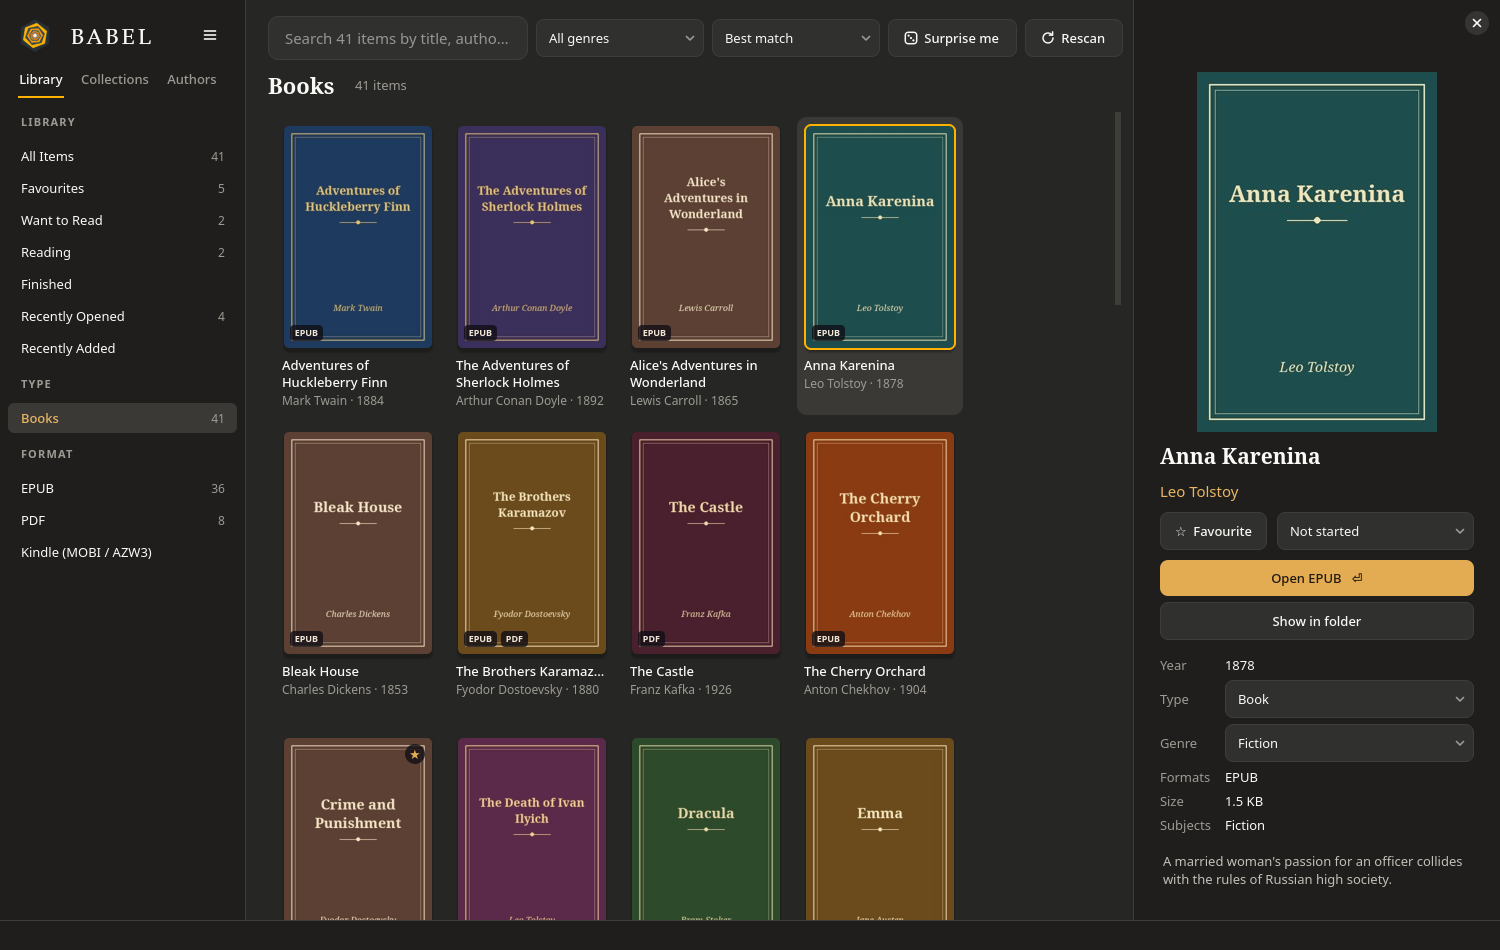
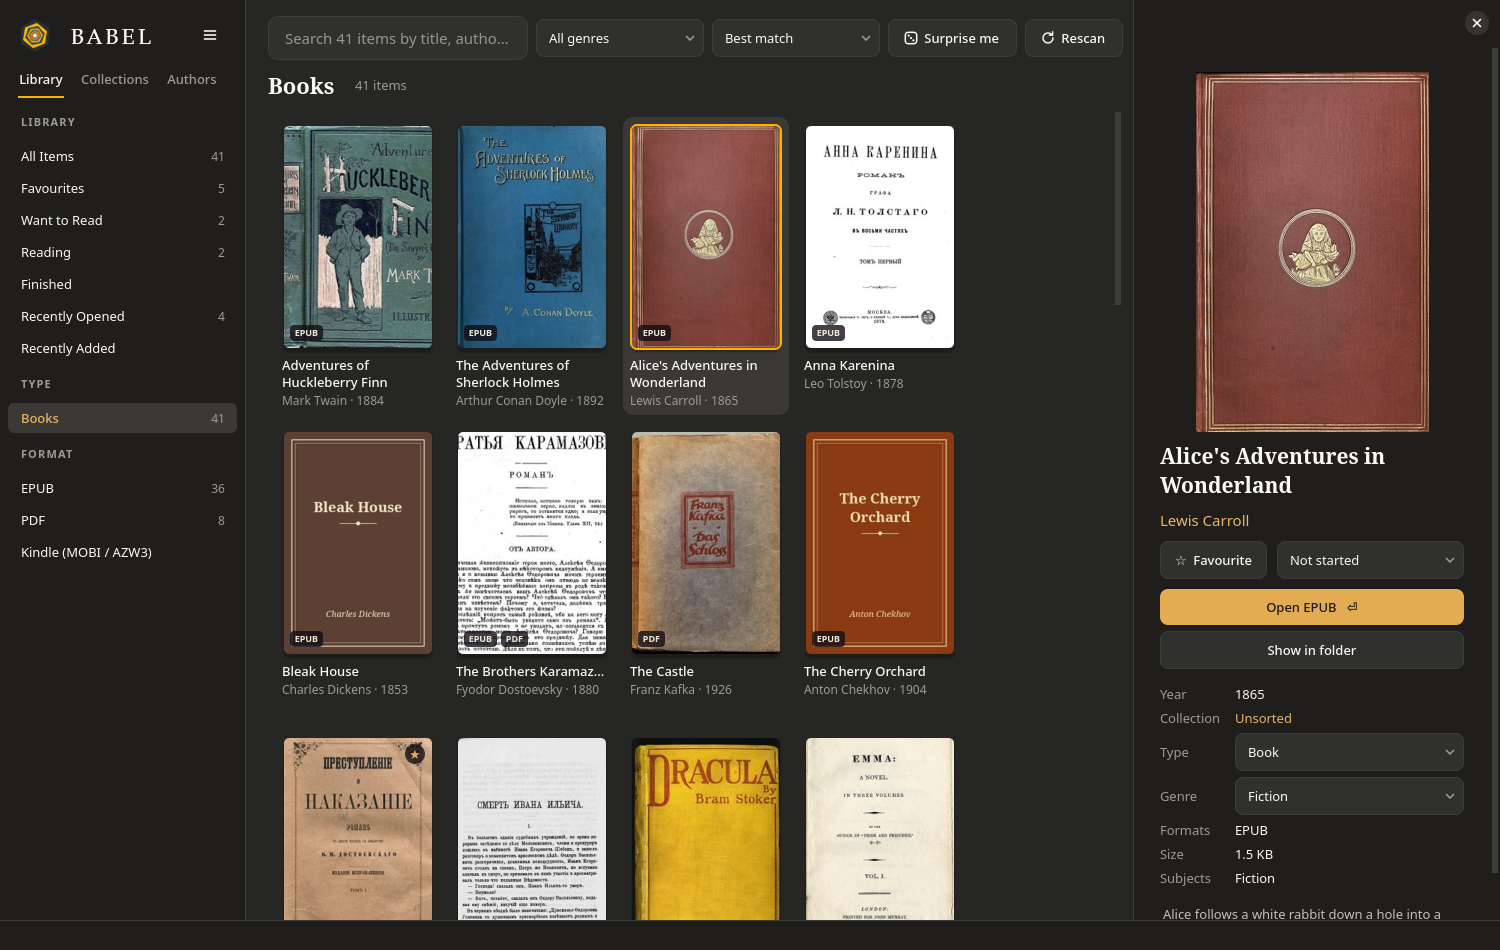
Screenshots: use public-domain early-edition covers
The demo library's covers are now scans of early editions from Wikimedia
Commons, each marked public domain there; docs/CREDITS.md lists every
image with a link to its source page.

diff --git a/docs/CREDITS.md b/docs/CREDITS.md
@@ -1,0 +1,37 @@
+# Image credits
+
+The screenshots in this repository show a demo library of public-domain classics. The book covers in them are scans of early editions from [Wikimedia Commons](https://commons.wikimedia.org), each marked public domain there. Books without a suitable scan use covers drawn for the demo.
+
+| Book | Image on Wikimedia Commons | Licence |
+|---|---|---|
+| A Tale of Two Cities | [Cover for A Tale of Two Cities, by Phiz.jpeg](https://commons.wikimedia.org/wiki/File:Cover_for_A_Tale_of_Two_Cities,_by_Phiz.jpeg) | Public domain |
+| Adventures of Huckleberry Finn | [E. W. Kemble - Adventures of Huckleberry Finn Cover.jpg](https://commons.wikimedia.org/wiki/File:E._W._Kemble_-_Adventures_of_Huckleberry_Finn_Cover.jpg) | Public domain |
+| Alice's Adventures in Wonderland | [Alice's Adventures in Wonderland cover (1865).jpg](https://commons.wikimedia.org/wiki/File:Alice%27s_Adventures_in_Wonderland_cover_(1865).jpg) | Public domain |
+| Anna Karenina | [AnnaKareninaTitle.jpg](https://commons.wikimedia.org/wiki/File:AnnaKareninaTitle.jpg) | Public domain |
+| Crime and Punishment | [Cover of the first edition of Crime and Punishment.jpg](https://commons.wikimedia.org/wiki/File:Cover_of_the_first_edition_of_Crime_and_Punishment.jpg) | Public domain |
+| Dracula | [Dracula-First-Edition-1897.jpg](https://commons.wikimedia.org/wiki/File:Dracula-First-Edition-1897.jpg) | Public domain |
+| Emma | [EmmaTitlePage.jpg](https://commons.wikimedia.org/wiki/File:EmmaTitlePage.jpg) | Public domain |
+| Frankenstein | [Frankenstein 1818 edition title page.jpg](https://commons.wikimedia.org/wiki/File:Frankenstein_1818_edition_title_page.jpg) | Public domain |
+| Great Expectations | [Dickens Great Expectations title page.jpg](https://commons.wikimedia.org/wiki/File:Dickens_Great_Expectations_title_page.jpg) | Public domain |
+| Hamlet | [Hamlet Q1 Frontispiece 1603.jpg](https://commons.wikimedia.org/wiki/File:Hamlet_Q1_Frontispiece_1603.jpg) | Public domain |
+| Jane Eyre | [Jane Eyre title page.jpg](https://commons.wikimedia.org/wiki/File:Jane_Eyre_title_page.jpg) | Public domain |
+| Leaves of Grass | [Leaves of Grass (1855) cover.jpg](https://commons.wikimedia.org/wiki/File:Leaves_of_Grass_(1855)_cover.jpg) | Public domain |
+| Middlemarch | [Middlemarch 1.jpg](https://commons.wikimedia.org/wiki/File:Middlemarch_1.jpg) | Public domain |
+| Moby-Dick | [Moby-Dick FE title page.jpg](https://commons.wikimedia.org/wiki/File:Moby-Dick_FE_title_page.jpg) | Public domain |
+| Oliver Twist | [Oliver Twist-Vol 3-0009.jpg](https://commons.wikimedia.org/wiki/File:Oliver_Twist-Vol_3-0009.jpg) | Public domain |
+| On the Origin of Species | [Origin of Species 1859 title page.jpg](https://commons.wikimedia.org/wiki/File:Origin_of_Species_1859_title_page.jpg) | Public domain |
+| Persuasion | [Northanger Abbey and Persuasion.jpg](https://commons.wikimedia.org/wiki/File:Northanger_Abbey_and_Persuasion.jpg) | Public domain |
+| Poems, First Series | [Poems by Emily Dickinson, Cover.png](https://commons.wikimedia.org/wiki/File:Poems_by_Emily_Dickinson,_Cover.png) | Public domain |
+| Poems, Second Series | [Emily Dickinson Poems - Second Series.jpg](https://commons.wikimedia.org/wiki/File:Emily_Dickinson_Poems_-_Second_Series.jpg) | Public domain |
+| Pride and Prejudice | [PrideAndPrejudiceTitlePage.jpg](https://commons.wikimedia.org/wiki/File:PrideAndPrejudiceTitlePage.jpg) | Public domain |
+| Sense and Sensibility | [SenseAndSensibilityTitlePage.jpg](https://commons.wikimedia.org/wiki/File:SenseAndSensibilityTitlePage.jpg) | Public domain |
+| The Adventures of Sherlock Holmes | [Adventures of sherlock holmes.jpg](https://commons.wikimedia.org/wiki/File:Adventures_of_sherlock_holmes.jpg) | Public domain |
+| The Brothers Karamazov | [Dostoevsky-Brothers Karamazov.jpg](https://commons.wikimedia.org/wiki/File:Dostoevsky-Brothers_Karamazov.jpg) | Public domain |
+| The Castle | [Kafka Das Schloss 1926.jpg](https://commons.wikimedia.org/wiki/File:Kafka_Das_Schloss_1926.jpg) | Public domain |
+| The Death of Ivan Ilyich | [The Death of Ivan Ilyich.jpg](https://commons.wikimedia.org/wiki/File:The_Death_of_Ivan_Ilyich.jpg) | Public domain |
+| The Picture of Dorian Gray | [The title card of an 1891 print of The Picture of Dorian Gray, by Oscar Wilde.png](https://commons.wikimedia.org/wiki/File:The_title_card_of_an_1891_print_of_The_Picture_of_Dorian_Gray,_by_Oscar_Wilde.png) | Public domain |
+| The Tenant of Wildfell Hall | [The Tenant of Wildfell Hall American Edition.png](https://commons.wikimedia.org/wiki/File:The_Tenant_of_Wildfell_Hall_American_Edition.png) | Public domain |
+| War and Peace | [Tolstoy - War and Peace - first edition, 1869.jpg](https://commons.wikimedia.org/wiki/File:Tolstoy_-_War_and_Peace_-_first_edition,_1869.jpg) | Public domain |
+| Wuthering Heights | [Houghton Lowell 1238.5 (A) - Wuthering Heights, 1847.jpg](https://commons.wikimedia.org/wiki/File:Houghton_Lowell_1238.5_(A)_-_Wuthering_Heights,_1847.jpg) | Public domain |
+
+The Babel icon and interface are part of this project (GPL-3.0-or-later).

diff --git a/README.md b/README.md
@@ -18,7 +18,8 @@ Named after Jorge Luis Borges' story *The Library of Babel*.
 <p align="center"><img src="docs/preferences.png" width="640" alt="Babel's Preferences window"></p>
 </details>
 
-<sub>Screenshots show a demo library of public-domain classics with stand-in covers.
+<sub>Screenshots show a demo library of public-domain classics. The covers are early editions
+from Wikimedia Commons, all public domain ([credits](docs/CREDITS.md)); a few books use stand-in covers.
 With your own books, Babel shows each book's real cover.</sub>
 
 ## Features
